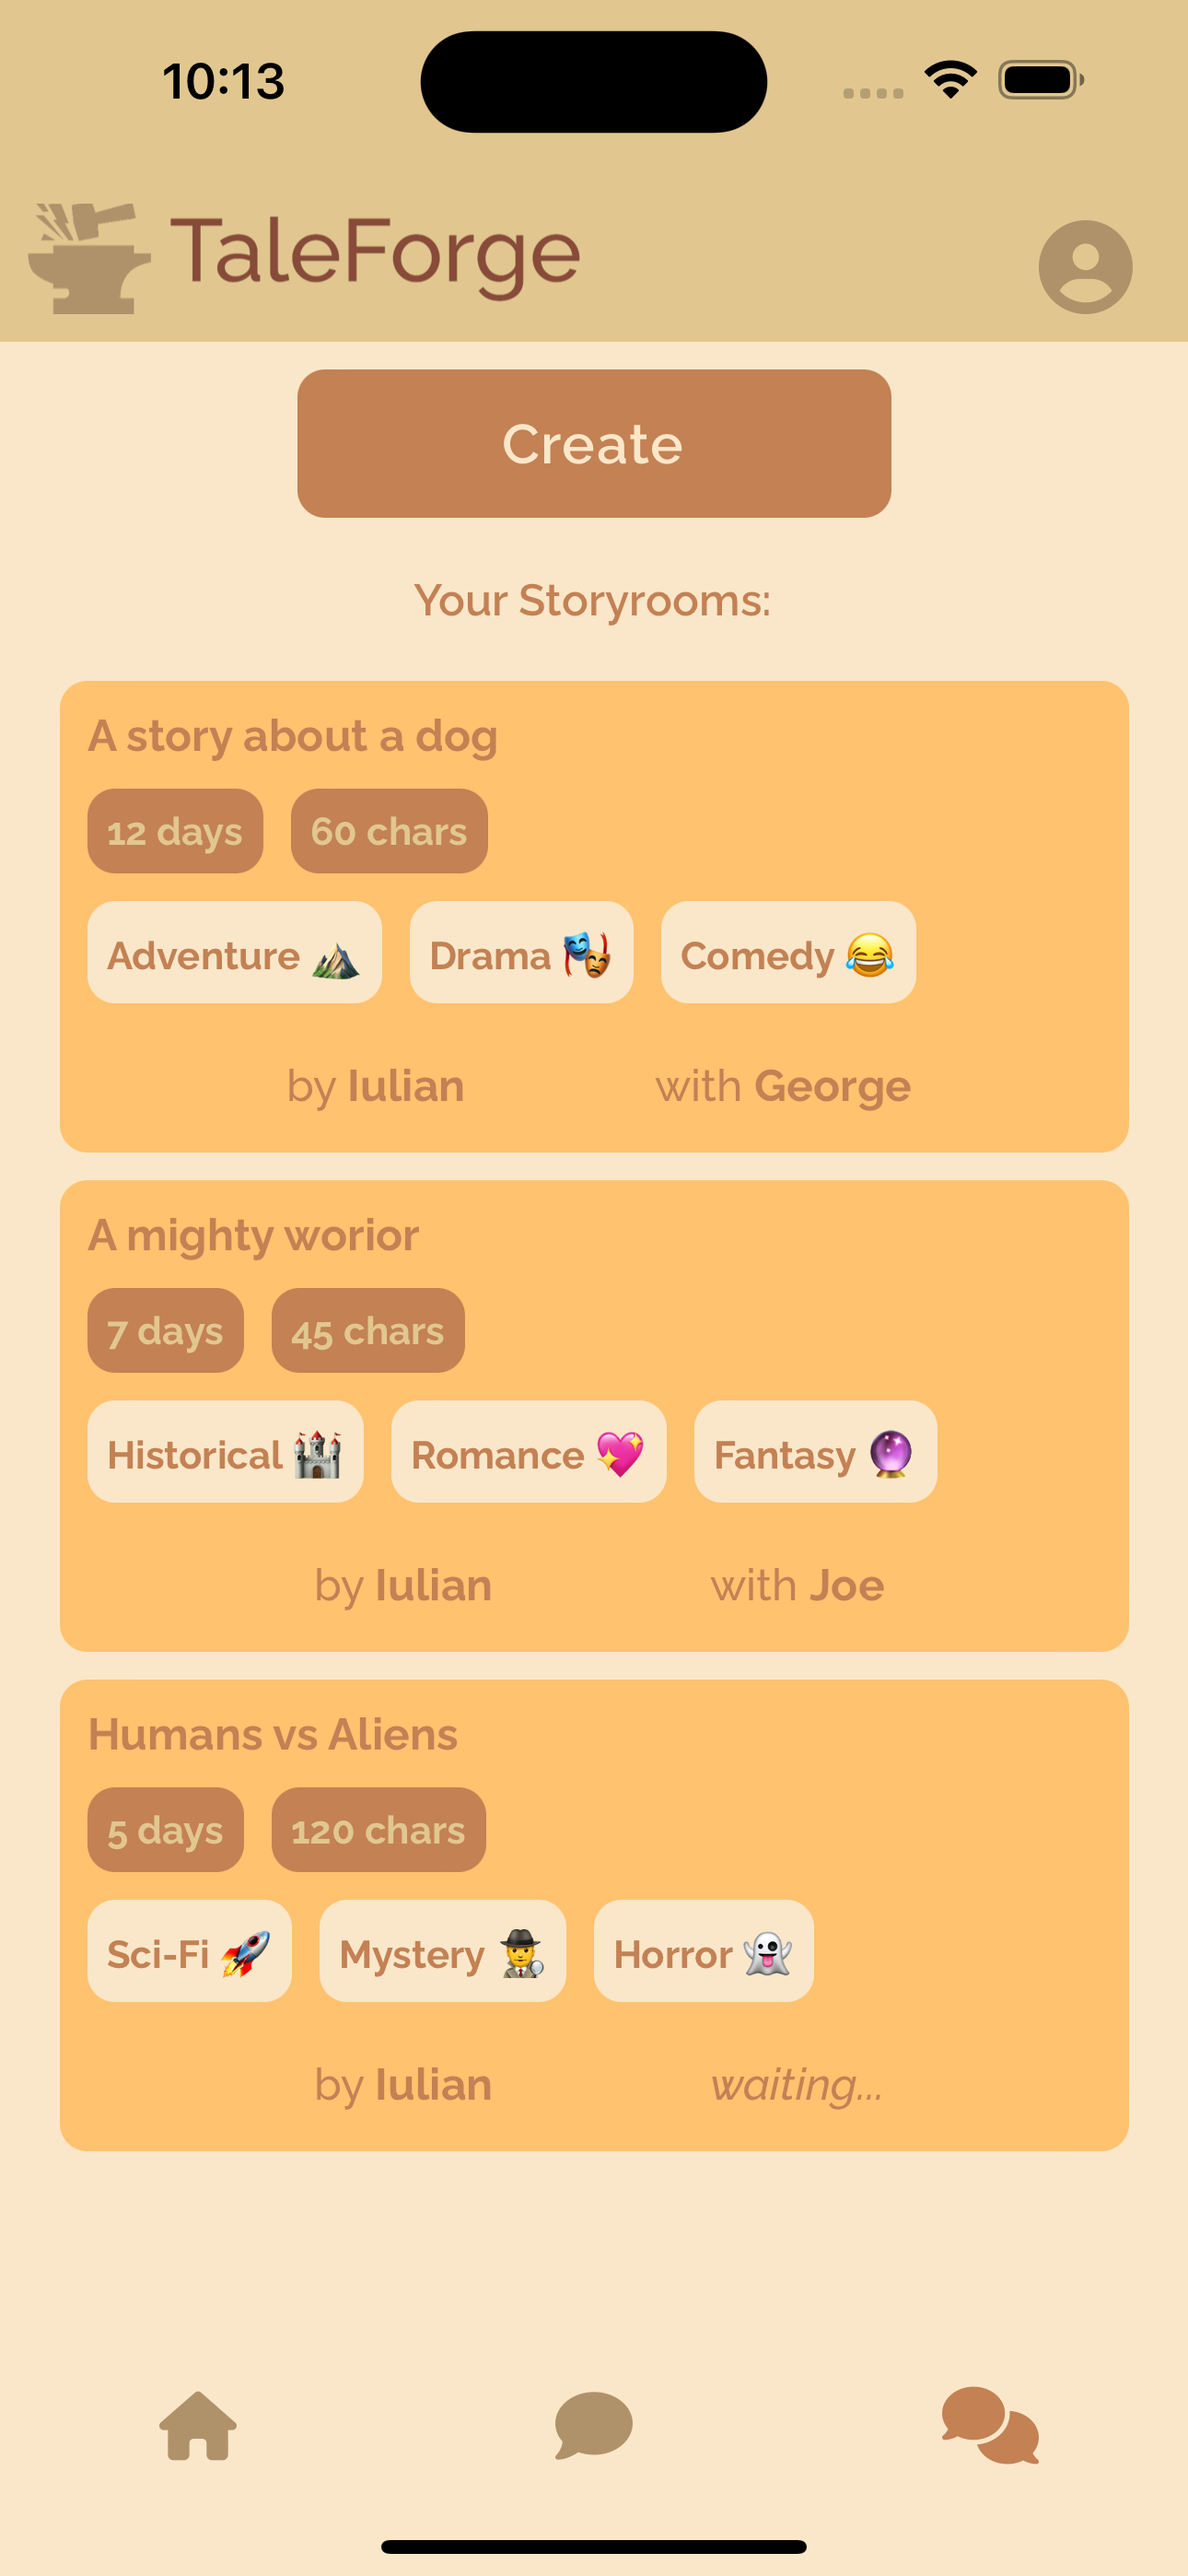
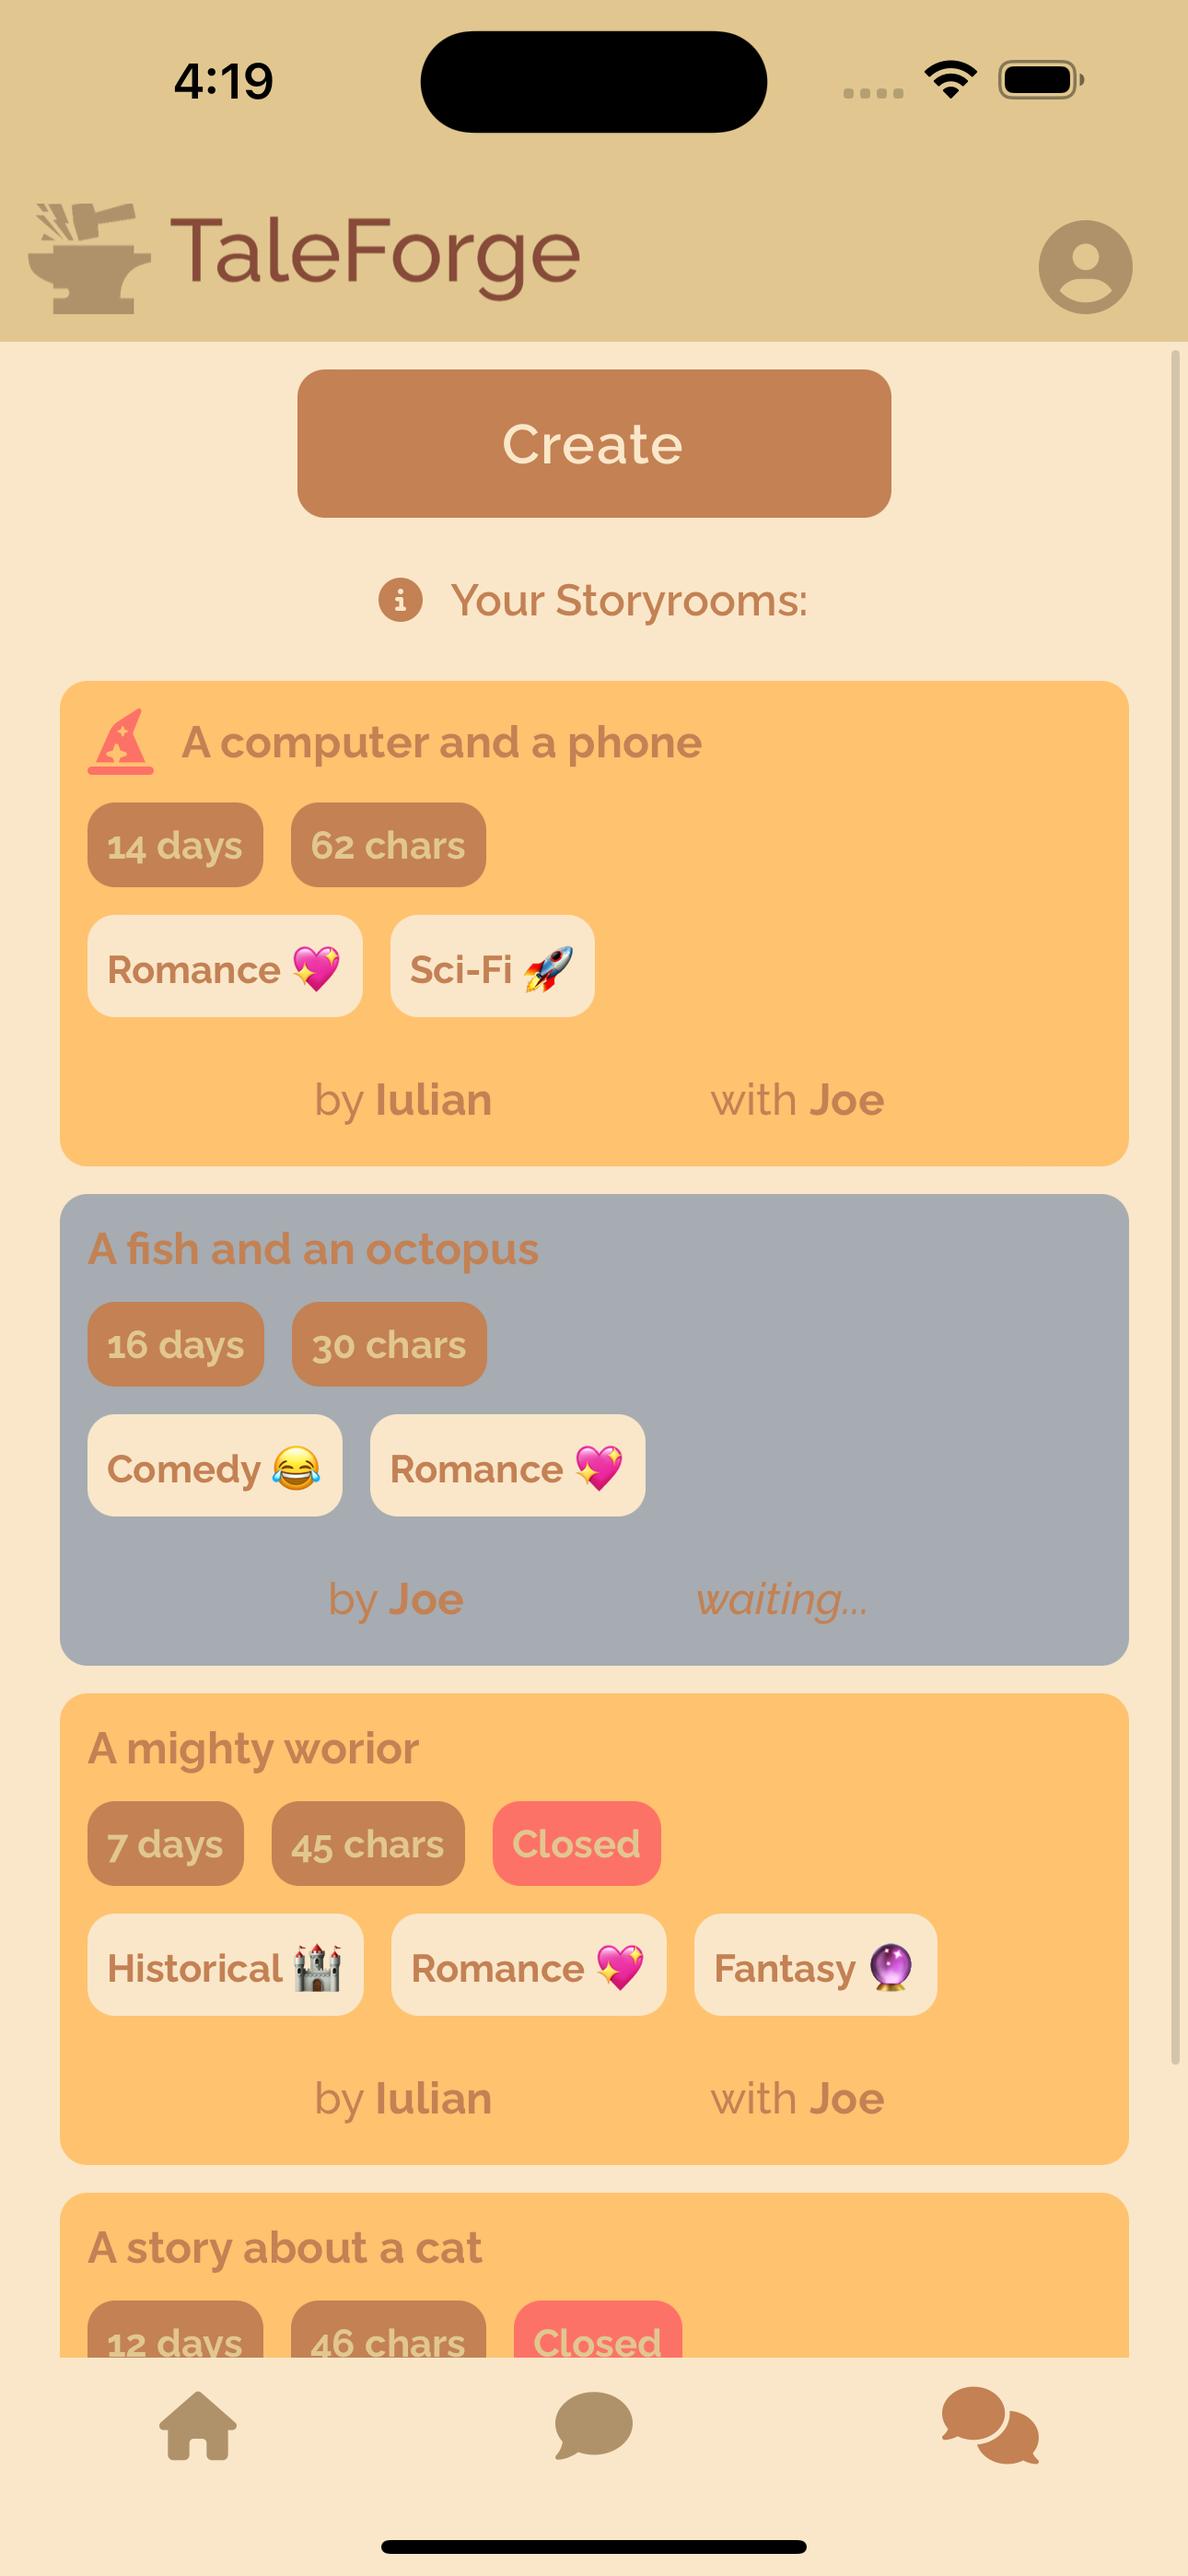
Updated README.md

Changed region(s): [[0.031, 0.1245, 0.9922, 0.9335], [0.3101, 0.2178, 0.6822, 0.2489], [0.155, 0.0, 0.2481, 0.0622]]

diff --git a/README.md b/README.md
@@ -21,10 +21,11 @@
 
 ### Home
 
-> On the home page, users gain access to various available story rooms, providing the option to join any of them
+> On the home page, users gain access to various available story rooms, providing the option to join any of them and filter them.
 
 <p align="center">
 <img src="./readme/home2.png" width="230" height="500">
+<img src="./readme/home3.png" width="230" height="500">
 <img src="./readme/home1.png" width="230" height="500">
 </p>
 
@@ -39,6 +40,12 @@
 ### Duo-Chat
 
 > In the Duo-Chat feature, users can conveniently access all ongoing chats they're part of, while also having the option to create new ones for others to join. 
+> 
+> Every story room has a different design depending on the state of the room:
+> - a wizard hat before the title represents the need of the user to send a message
+> - the background grey represents the fact that the rooms has not been yet joined by another user
+> - the closed tag represents that the number of days set at the beginning has finished
+> - the simple designed room means that everything is good
 
 <p align="center">
 <img src="./readme/duo_chat.png" width="230" height="500">
@@ -50,6 +57,7 @@
 
 > Upon selecting any available story room, users gain access to chat with their designated friend. Engage in storytelling by exchanging one message per day until the countdown concludes. This gradual interaction allows for a captivating storytelling experience, where each message contributes to the evolving narrative between friends.
 
+
 <p align="center">
 <img src="./readme/mess1.png" width="560" height="500">
 <img src="./readme/mess2.png" width="230" height="500">
@@ -58,7 +66,7 @@
 
 ### Profile
 
->Presently, on the profile page, users can access a color picker feature that enables them to personalize the chat by changing its color. Tailor the chat interface to your preferences by selecting from a spectrum of colors, adding a touch of individuality to your storytelling experience!
+>Presently, on the profile page, users can access a color picker feature that enables them to personalize the chat by changing its color and change their profile picture / username.
 
 <p align="center">
 <img src="./readme/profile1.png" width="230" height="500">
